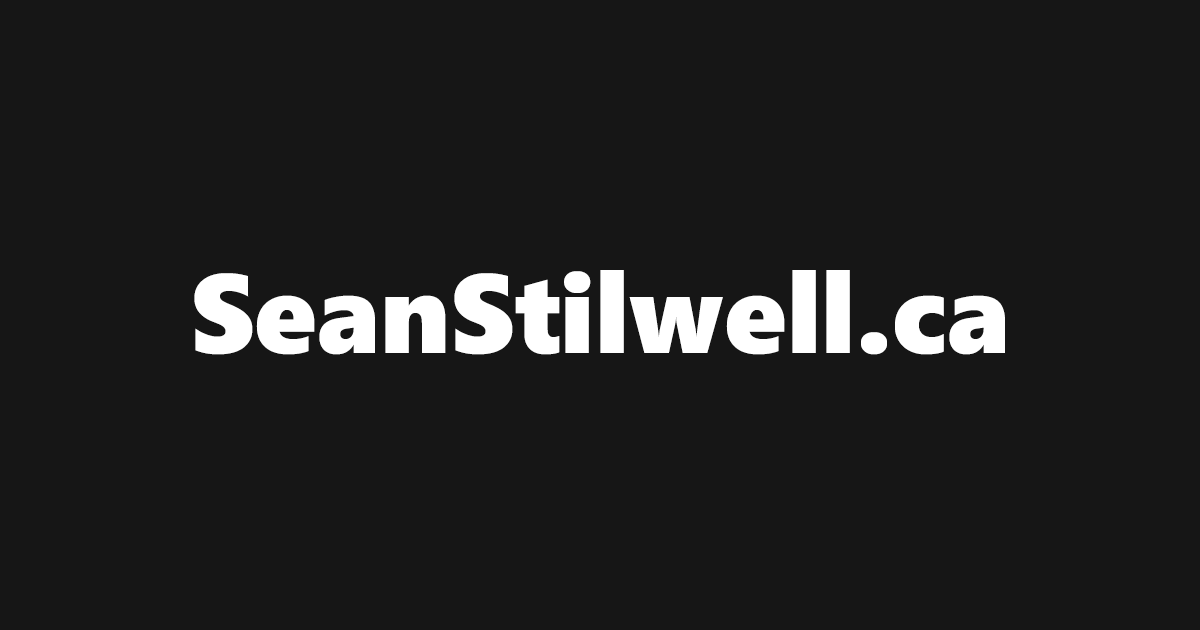
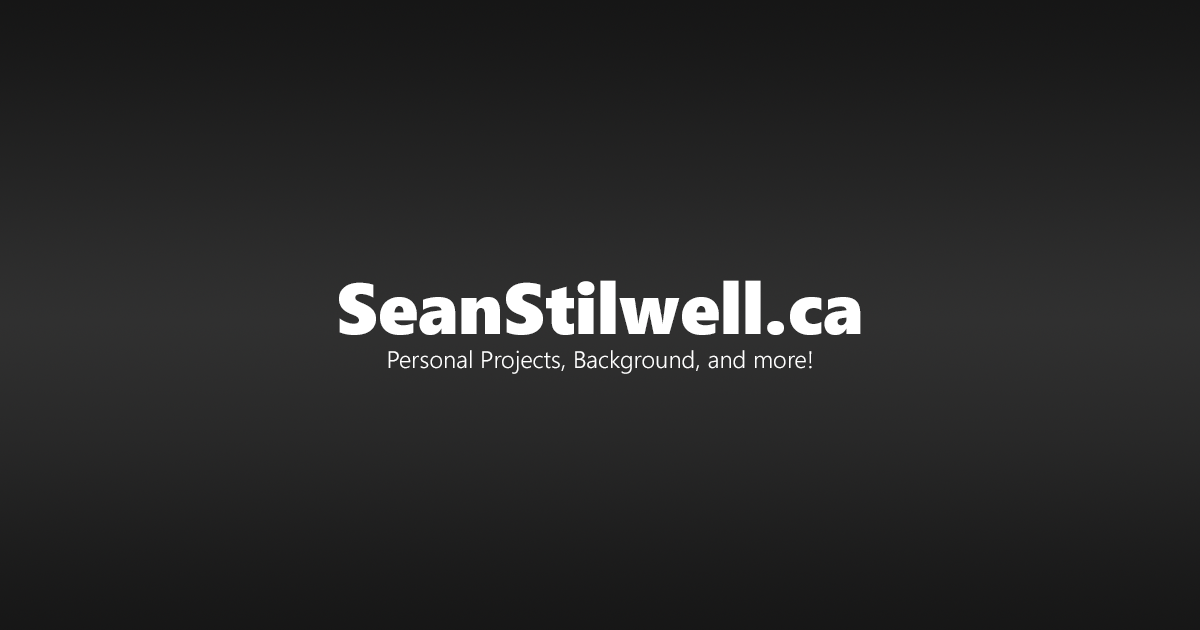
Adding new photo

Changed region(s): [[0.0, 0.4222, 1.0, 0.6032]]

diff --git a/index.html b/index.html
@@ -9,13 +9,13 @@
         <meta property="og:title" content="Sean Stilwell's Personal Website">
         <meta property="og:description" content="Sean Stilwell's Personal Website - Information about personal projects, background, and more!">
         <meta property="og:type" content="website">
-        <meta property="og:image" content="https://i.imgur.com/1Xd0zbK.jpg">
+        <meta property="og:image" content="https://i.imgur.com/hgYzYE5.jpg">
         <meta property="og:url" content="http://seanstilwell.ca">
     </HEAD>
     <BODY>
         <div class="mainpage">
             <div class="invisible">
-                <img src="https://i.imgur.com/eCKkkor.png" height="0" width="0" title="Sean's Website" alt="Sean's Website">
+                <img src="https://i.imgur.com/hgYzYE5.jpg" height="0" width="0" title="Sean's Website" alt="Sean's Website">
             </div>
             <div class="name">
                 <H1>

diff --git a/projects.html b/projects.html
@@ -3,7 +3,7 @@
         <TITLE>Sean Stilwell</TITLE>
         <link rel="stylesheet" href="stylingnew.css">
         <link rel="icon" href="icon_zsw_icon.ico" type="image/gif" sizes="16x16">
-        <meta property="og:image" content="https://i.imgur.com/1Xd0zbK.jpg">
+        <meta property="og:image" content="https://i.imgur.com/hgYzYE5.jpg">
         <meta name="viewport" content="width=device-width, initial-scale=1">
         <meta name="keywords" content="sean stilwell, software developer, intern, student, developer, mobile, web, uottawa, sean, stilwell, projects, html, css, javascript, java, c#, python, apps, github">
     </HEAD>

diff --git a/aboutme.html b/aboutme.html
@@ -3,7 +3,7 @@
         <TITLE>Sean Stilwell</TITLE>
         <link rel="stylesheet" href="stylingnew.css">
         <link rel="icon" href="icon_zsw_icon.ico" type="image/gif" sizes="16x16">
-        <meta property="og:image" content="https://i.imgur.com/1Xd0zbK.jpg">
+        <meta property="og:image" content="https://i.imgur.com/hgYzYE5.jpg">
         <meta name="viewport" content="width=device-width, initial-scale=1">
         <meta name="keywords" content="sean stilwell, software developer, intern, student, developer, mobile, web, uottawa, sean, stilwell, about">
     </HEAD>

diff --git a/contact.html b/contact.html
@@ -3,7 +3,7 @@
         <TITLE>Sean Stilwell</TITLE>
         <link rel="stylesheet" href="stylingnew.css">
         <link rel="icon" href="icon_zsw_icon.ico" type="image/gif" sizes="16x16">
-        <meta property="og:image" content="https://i.imgur.com/1Xd0zbK.jpg">
+        <meta property="og:image" content="https://i.imgur.com/hgYzYE5.jpg">
         <meta name="viewport" content="width=device-width, initial-scale=1">
         <meta name="keywords" content="sean stilwell, software developer, intern, student, developer, mobile, web, uottawa, sean, stilwell">
     </HEAD>

diff --git a/finalgradecalculator.html b/finalgradecalculator.html
@@ -3,7 +3,7 @@
         <TITLE>Sean Stilwell</TITLE>
         <link rel="stylesheet" href="stylingnew.css">
         <link rel="icon" href="icon_zsw_icon.ico" type="image/gif" sizes="16x16">
-        <meta property="og:image" content="https://i.imgur.com/1Xd0zbK.jpg">
+        <meta property="og:image" content="https://i.imgur.com/hgYzYE5.jpg">
         <meta name="viewport" content="width=device-width, initial-scale=1">
         <meta name="keywords" content="sean stilwell, software developer, intern, student, developer, mobile, web, uottawa, sean, stilwell">
 
